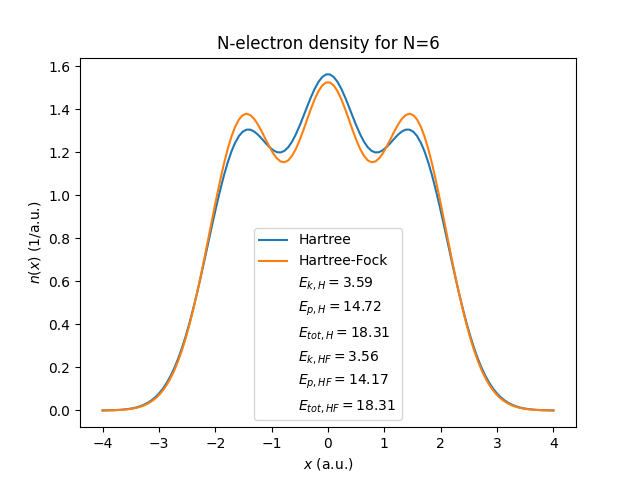
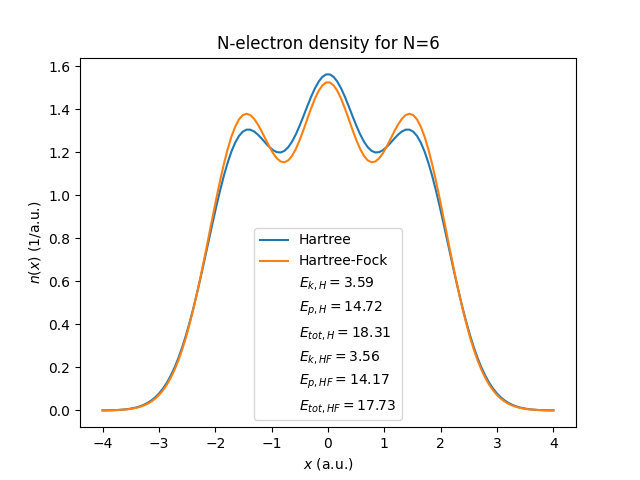
ex9

diff --git a/exercise8/hartree_1d.py b/exercise8/hartree_1d.py
@@ -336,7 +336,7 @@ def main():
     off = offdiag_potential_energy(orbitals,x)
     E_kin_hf = diagonal_energy(T,orbitals,x)
     E_pot_hf = diagonal_energy(sp.diags(Vext,0),orbitals,x) + off + exchange_energy(orbitals,spins,x)
-    E_tot_hf = E_kin + E_pot
+    E_tot_hf = E_kin_hf + E_pot_hf
     print('Total energy     ', E_tot_hf)
     print('Kinetic energy   ', E_kin_hf)
     print('Potential energy ', E_pot_hf) 
